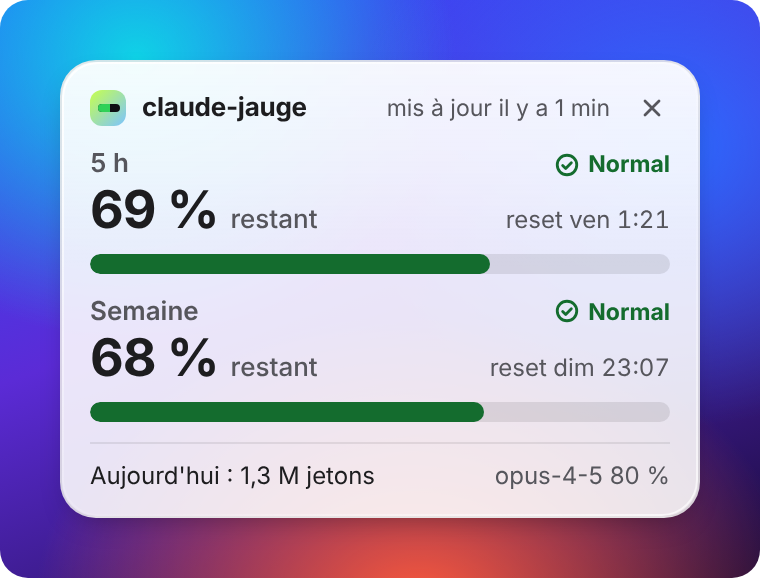
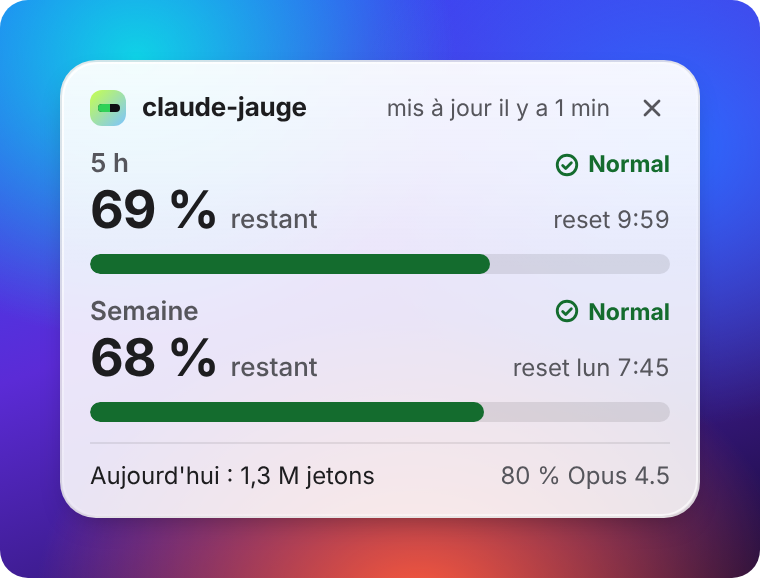
fix(widget): affichage plus lisible
- le chiffre et « restant » ne passent jamais à la ligne ; le texte de remise à zéro ne déborde plus
- après une remise à zéro : « nouvelle fenêtre » à droite, explication courte sous la barre
- pied : « 100 % Opus 5.5 » au lieu de « opus-5-5 100 % »
- aperçu : état après remise à zéro

Claude-Session: https://claude.ai/code/session_01LnQXzK5CjXdMPNAuP3vf6d

Changed region(s): [[0.6658, 0.3414, 0.8776, 0.4034], [0.6355, 0.8069, 0.8776, 0.8379], [0.6355, 0.6207, 0.8776, 0.6517]]

diff --git a/src/widget-model.ts b/src/widget-model.ts
@@ -22,6 +22,8 @@ export interface WidgetWindow {
   resetText: string;
   /** Only set when the limit is expected before the reset, or already reached. */
   alertText?: string;
+  /** Neutral explanation under the bar (for example after a reset). */
+  noteText?: string;
 }
 
 export interface WidgetView {
@@ -63,6 +65,14 @@ function emptyState(lang: Lang, setup: SetupInfo | undefined): Pick<WidgetView, 
 const LEVEL_KEY = { normal: 'levelNormal', warning: 'levelWarning', critical: 'levelCritical' } as const;
 const STALE_SEC = 30 * 60;
 
+/** "claude-opus-4-5-20251101" becomes "Opus 4.5". */
+export function modelName(model: string): string {
+  const m = /^(?:claude-)?([a-z]+)-(\d+)(?:-(\d{1,2}))?(?:-\d{8})?$/.exec(model);
+  if (!m) return shortModel(model);
+  const family = m[1]!.charAt(0).toUpperCase() + m[1]!.slice(1);
+  return m[3] ? `${family} ${m[2]}.${m[3]}` : `${family} ${m[2]}`;
+}
+
 function shortModel(model: string): string {
   return model.replace(/^claude-/, '').replace(/-\d{8}$/, '');
 }
@@ -89,10 +99,9 @@ export function buildWidgetView(historyText: string, usage: DailyUsage | undefin
       leftText: pct(100 - used, lang),
       level,
       levelLabel: t(lang, LEVEL_KEY[level]),
-      resetText: w.hasReset
-        ? t(lang, 'windowReset', { time: shortWhen(w.sample.reset, nowSec, fo) })
-        : t(lang, 'widgetResetAt', { time: shortWhen(w.sample.reset, nowSec, fo) }),
+      resetText: w.hasReset ? t(lang, 'widgetNewWindow') : t(lang, 'widgetResetAt', { time: shortWhen(w.sample.reset, nowSec, fo) }),
       alertText,
+      ...(w.hasReset ? { noteText: t(lang, 'widgetWaiting', { time: shortWhen(w.sample.reset, nowSec, fo) }) } : {}),
     });
   }
 
@@ -109,7 +118,7 @@ export function buildWidgetView(historyText: string, usage: DailyUsage | undefin
     view.todayText = t(lang, 'widgetToday', { tokens: compact(usage.total, lang) });
     const top = Object.entries(usage.byModel).sort((a, b) => b[1] - a[1])[0];
     if (top) {
-      view.topModelText = t(lang, 'widgetTopModel', { model: shortModel(top[0]), share: pct((top[1] / usage.total) * 100, lang) });
+      view.topModelText = t(lang, 'widgetTopModel', { model: modelName(top[0]), share: pct((top[1] / usage.total) * 100, lang) });
     }
   }
   return view;

diff --git a/test/widget-model.test.ts b/test/widget-model.test.ts
@@ -1,6 +1,6 @@
 import { test } from 'node:test';
 import assert from 'node:assert/strict';
-import { buildWidgetView, type SetupInfo } from '../src/widget-model.js';
+import { buildWidgetView, modelName, type SetupInfo } from '../src/widget-model.js';
 import { NOW, TZ, readFixture } from './helpers.js';
 
 const history = readFixture('history-sample.jsonl');
@@ -22,7 +22,7 @@ test('widget view: gauges, levels, forecast alert (French)', () => {
 test('widget view: today tokens and top model (English)', () => {
   const v = buildWidgetView(history, { day: '2026-11-26', total: 1_250_000, byModel: { 'claude-opus-4-5-20251101': 1_000_000, 'claude-haiku-4-5-20251001': 250_000 } }, NOW, 'en', TZ);
   assert.equal(v.todayText, 'Today: 1.3M tokens');
-  assert.equal(v.topModelText, 'opus-4-5 80%');
+  assert.equal(v.topModelText, '80% Opus 4.5');
 });
 
 test('widget view: empty history explains the setup, stale data is flagged', () => {
@@ -39,7 +39,8 @@ test('widget view: a window past its reset shows 100 % left', () => {
   const five = v.windows.find((w) => w.key === 'five')!;
   assert.equal(five.leftText, '100%');
   assert.equal(five.level, 'normal');
-  assert.match(five.resetText, /window reset at 10:00/);
+  assert.equal(five.resetText, 'new window');
+  assert.equal(five.noteText, 'Reset at 10:00. Numbers come back with your next Claude Code message.');
 });
 
 test('widget view: the desktop app explains what is missing and offers one click', () => {
@@ -54,4 +55,11 @@ test('widget view: the desktop app explains what is missing and offers one click
   assert.match(view({ link: { state: 'badJson' } }).emptyText ?? '', /settings\.json/);
   assert.equal(view({ link: { state: 'linked' } }).action, undefined);
   assert.doesNotMatch(notLinked.emptyText ?? '', /claude-jauge install/, 'no command to type for .exe users');
+});
+
+test('widget view: model names read like products', () => {
+  assert.equal(modelName('claude-opus-4-5-20251101'), 'Opus 4.5');
+  assert.equal(modelName('claude-opus-5-5'), 'Opus 5.5');
+  assert.equal(modelName('claude-sonnet-4-20250514'), 'Sonnet 4');
+  assert.equal(modelName('claude-haiku-4-5'), 'Haiku 4.5');
 });

diff --git a/src/i18n.ts b/src/i18n.ts
@@ -79,7 +79,9 @@ Tout reste sur ta machine. Rien n'est envoyé sur Internet.`,
   levelWarning: 'Attention',
   levelCritical: 'Limite proche',
   widgetToday: "Aujourd'hui : {tokens} jetons",
-  widgetTopModel: '{model} {share}',
+  widgetTopModel: '{share} {model}',
+  widgetNewWindow: 'nouvelle fenêtre',
+  widgetWaiting: 'Remise à zéro à {time}. Les chiffres reviennent au prochain message dans Claude Code.',
   widgetEmpty: 'Pas encore de limites. Installe la statusLine (claude-jauge install), redémarre Claude Code et envoie-lui un message.',
   widgetLinked: 'Branché. Les limites arrivent quand tu utilises Claude Code dans un terminal (commande claude) : l\'appli Claude ne les transmet pas. Envoie-lui un message et elles s\'afficheront ici.',
   widgetNotLinked: 'Pas encore branché à Claude Code.',
@@ -171,7 +173,9 @@ Everything stays on your machine. Nothing is sent over the Internet.`,
   levelWarning: 'Watch out',
   levelCritical: 'Near limit',
   widgetToday: 'Today: {tokens} tokens',
-  widgetTopModel: '{model} {share}',
+  widgetTopModel: '{share} {model}',
+  widgetNewWindow: 'new window',
+  widgetWaiting: 'Reset at {time}. Numbers come back with your next Claude Code message.',
   widgetLinked: 'Plugged in. Limits arrive when you use Claude Code in a terminal (the claude command): the Claude app does not send them. Send it a message and they will show up here.',
   widgetNotLinked: 'Not plugged into Claude Code yet.',
   widgetLinkAction: 'Plug into Claude Code',

diff --git a/desktop/src/widget.css b/desktop/src/widget.css
@@ -147,16 +147,24 @@ button:focus-visible {
   margin-top: 1px;
 }
 .big {
+  flex: none;
+  white-space: nowrap;
   font: 700 26px/1.1 'Segoe UI Variable Display', 'Segoe UI', -apple-system, 'Inter', system-ui, sans-serif;
   letter-spacing: -0.02em;
   font-variant-numeric: tabular-nums;
 }
 .left {
+  flex: none;
+  white-space: nowrap;
   color: var(--muted);
   font-weight: 500;
 }
 .reset {
   margin-left: auto;
+  min-width: 0;
+  overflow: hidden;
+  text-overflow: ellipsis;
+  white-space: nowrap;
   color: var(--muted);
   font-size: 12px;
   font-variant-numeric: tabular-nums;
@@ -173,6 +181,12 @@ button:focus-visible {
   border-radius: 5px;
   background: var(--lv);
   transition: width 0.5s cubic-bezier(0.2, 0.9, 0.3, 1);
+}
+.note {
+  margin-top: 5px;
+  color: var(--muted);
+  font-size: 12px;
+  line-height: 1.35;
 }
 .alert {
   margin-top: 5px;

diff --git a/desktop/src/preview.ts b/desktop/src/preview.ts
@@ -26,6 +26,7 @@ const shots: [string, string][] = [
   ['busy', states.busy],
   ['critical', states.critical],
   ['empty', ''],
+  ['reset', [JSON.stringify({ t: now - 9 * 3600, five: { pct: 64, reset: now - 3 * 3600 }, week: { pct: 20, reset: week } })].join('\n')],
 ];
 root.innerHTML = shots
   .map(([name, text], i) => {

diff --git a/desktop/src/render.ts b/desktop/src/render.ts
@@ -33,6 +33,7 @@ function gauge(w: WidgetWindow, lang: 'fr' | 'en'): string {
     <div class="fill" style="width:${left}%"></div>
   </div>
   ${w.alertText ? `<div class="alert">${esc(w.alertText)}</div>` : ''}
+  ${w.noteText ? `<div class="note">${esc(w.noteText)}</div>` : ''}
 </section>`;
 }
 
